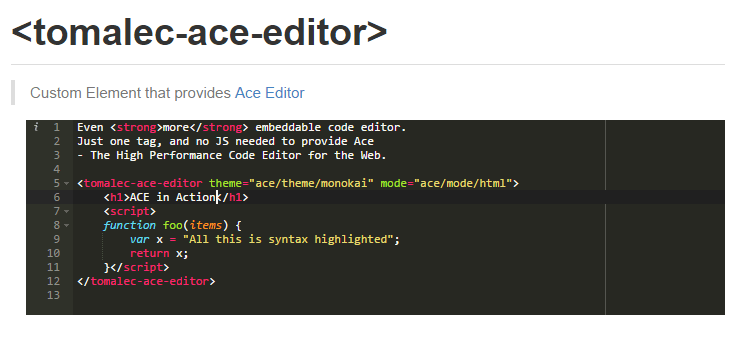
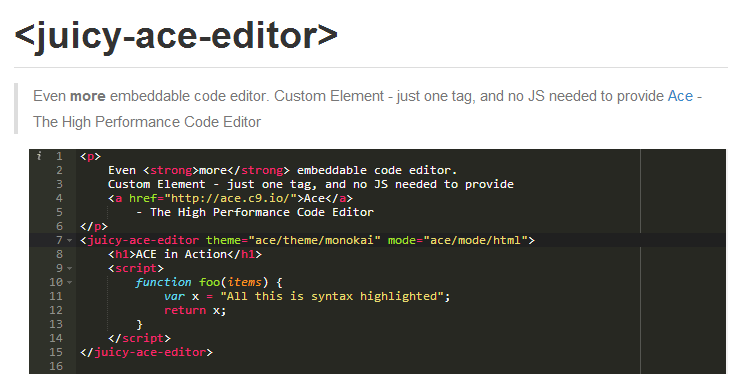
Preview and README update

Changed region(s): [[0.0, 0.2023, 0.9826, 0.9538], [0.0, 0.0289, 0.522, 0.1445]]

diff --git a/README.md b/README.md
@@ -27,7 +27,7 @@ You can still fiddle with Ace editor programmatically using `<juicy-ace-editor>.
 Install the component using [Bower](http://bower.io/):
 
 ```sh
-$ bower install juicy/juicy-ace-editor --save
+$ bower install juicy-ace-editor --save
 ```
 
 Or [download as ZIP](https://github.com/juicy/juicy-ace-editor/archive/master.zip).
@@ -54,19 +54,19 @@ Or [download as ZIP](https://github.com/juicy/juicy-ace-editor/archive/master.zi
 
 ## Attributes
 
-Attribute     | Options     | Default      | Description
----           | ---         | ---          | ---
-`theme`        | *String*    | ``        | `Editor#setTheme` at [Ace API](http://ace.c9.io/#nav=api&api=editor)
-`mode`         | *String*    | ``        | `EditSession#setMode` at [Ace API](http://ace.c9.io/#nav=api&api=edit_session)
-`fontsize`     | *String*    | ``        | `Editor#setFontSize` at [Ace API](http://ace.c9.io/#nav=api&api=editor)
-`softtabs`    | *Boolean* | `` | `EditSession#setUseSoftTabs()` at [Ace API](http://ace.c9.io/#nav=api&api=edit_session)
-`readonly`    | *Boolean* | `` | `Editor#setReadOnly()` at [Ace API](http://ace.c9.io/#nav=api&api=editor)
+Attribute  | Options   | Default | Description
+---        | ---       | ---     | ---
+`theme`    | *String*  | ``      | `Editor#setTheme` at [Ace API](http://ace.c9.io/#nav=api&api=editor)
+`mode`     | *String*  | ``      | `EditSession#setMode` at [Ace API](http://ace.c9.io/#nav=api&api=edit_session)
+`fontsize` | *String*  | ``      | `Editor#setFontSize` at [Ace API](http://ace.c9.io/#nav=api&api=editor)
+`softtabs` | *Boolean* | ``      | `EditSession#setUseSoftTabs()` at [Ace API](http://ace.c9.io/#nav=api&api=edit_session)
+`readonly` | *Boolean* | ``      | `Editor#setReadOnly()` at [Ace API](http://ace.c9.io/#nav=api&api=editor)
 
 ## Properties
 
 Name        |  Description
----           | ---
-`editor`   | Ace [editor](http://ace.c9.io/#nav=api&api=editor) object.
+---         | ---
+`editor`    | Ace [editor](http://ace.c9.io/#nav=api&api=editor) object.
 
 ## Contributing
 
@@ -78,7 +78,8 @@ Name        |  Description
 
 ## History
 
-For detailed changelog, check [Releases](https://github.com/juicy/juicy-ace-editor/releases).
+#### 0.0.1
+ - Moved and renamed from [tomalec/tomalec-ace-editor](https://github.com/tomalec/tomalec-ace-editor) to [Juicy/juicy-ace-editor](https://github.com/juicy/juicy-ace-editor)
 
 ## License
 
